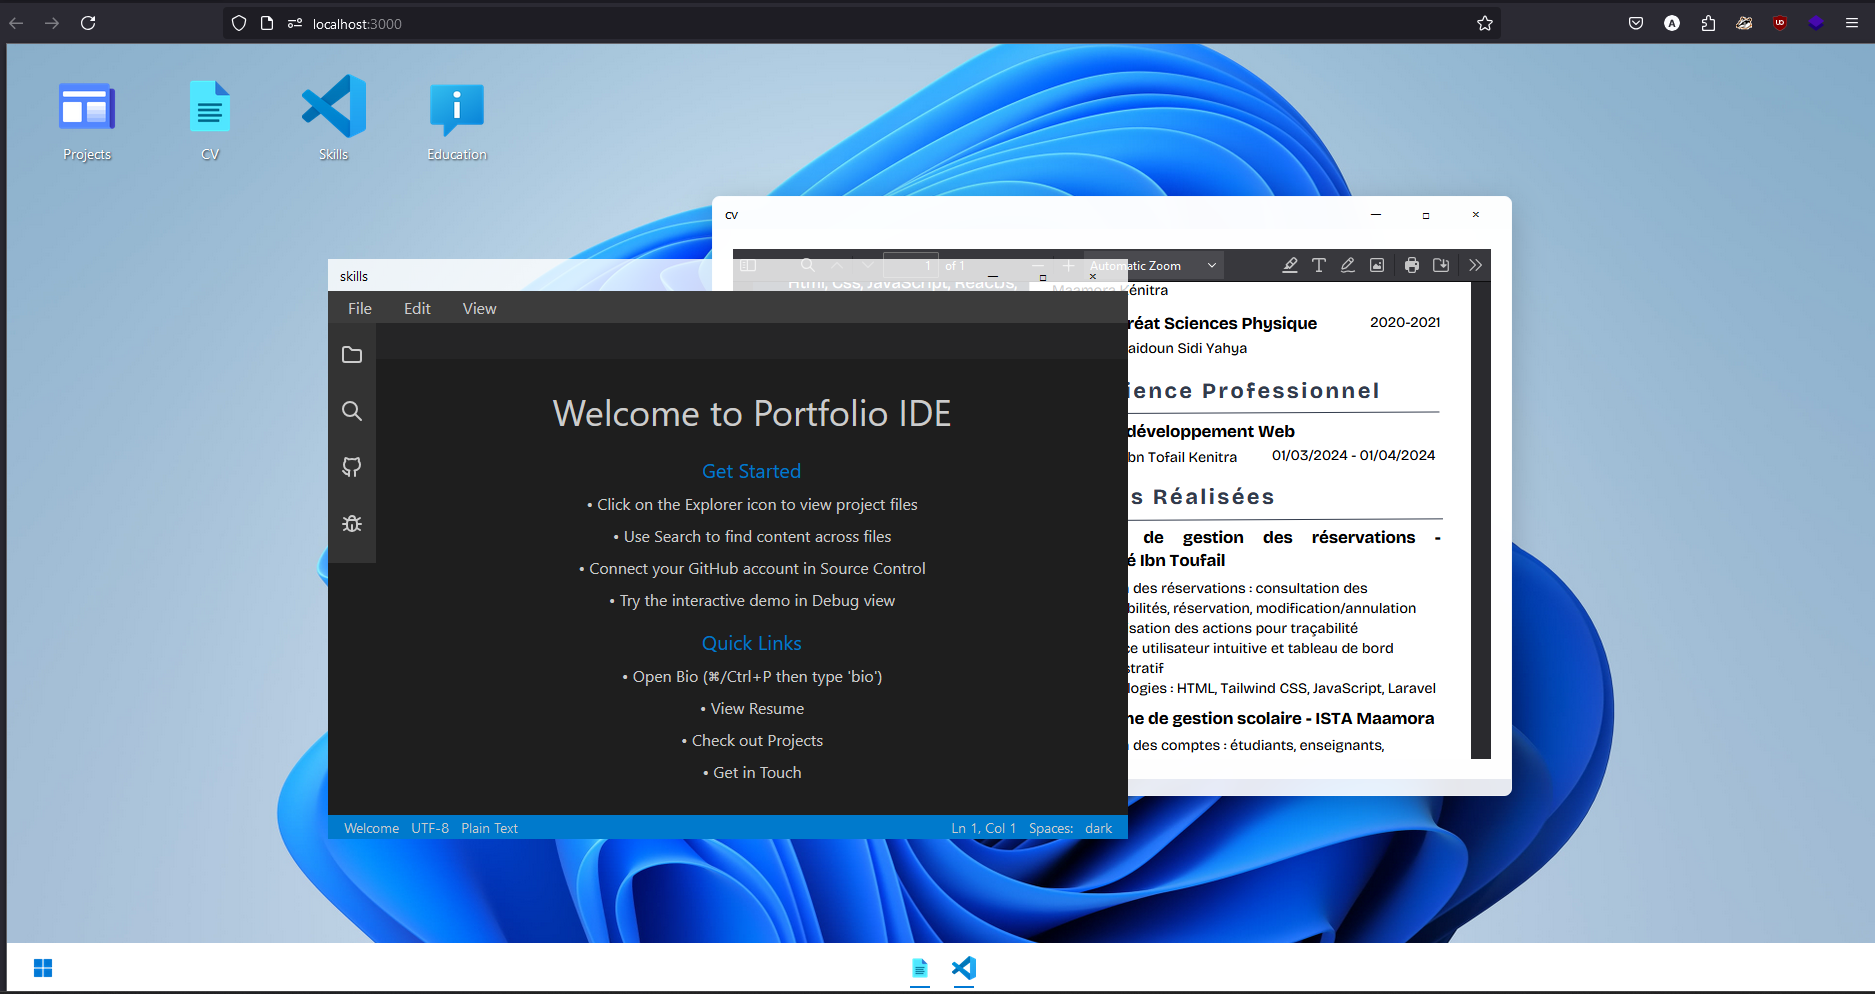
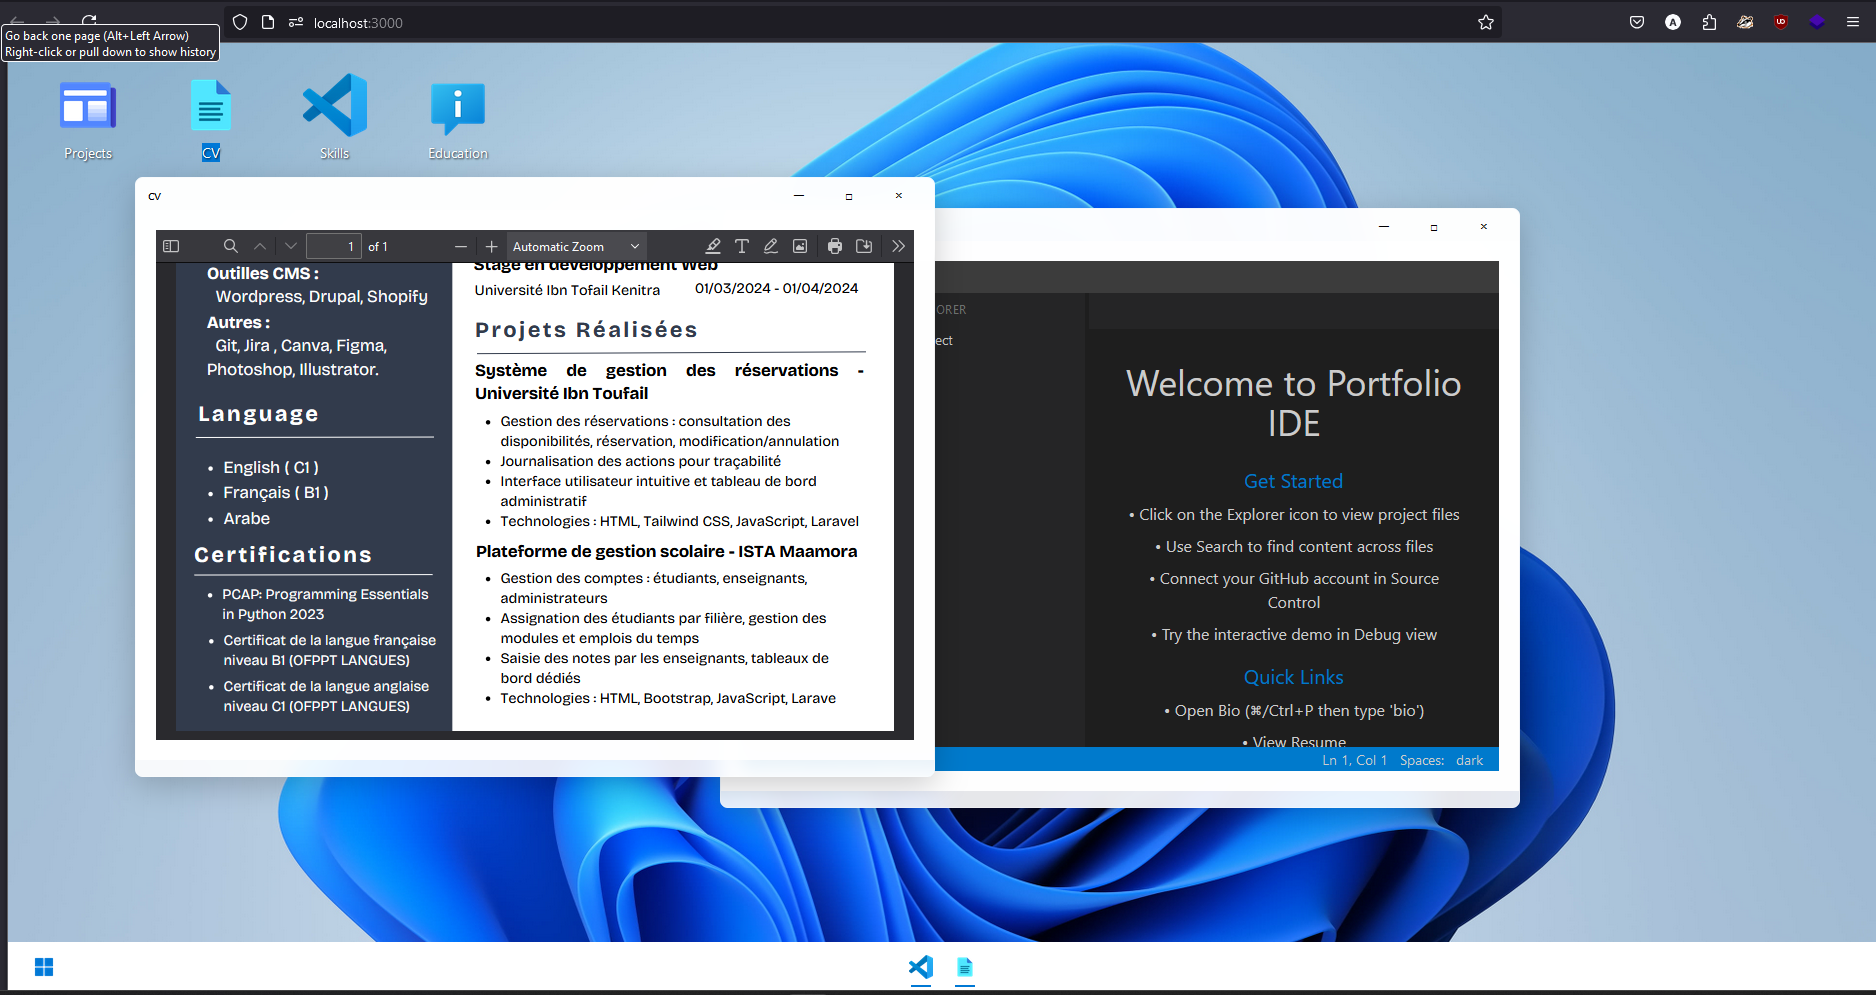
fix : smoother draggin

diff --git a/src/Window.js b/src/Window.js
@@ -1,49 +1,32 @@
 import React, { useState, useRef } from 'react';
+import Draggable from 'react-draggable';
 import './css/Window.css';
 import CV from './content/CV';
-import Skills from './content/Skills';
 import VSCodeWindow from './components/VSCodeWindow';
 
 function Window({ title, onClose, isMinimized, onMinimize, onMaximize, onRestore, isMaximized }) {
   const [position, setPosition] = useState({ x: 50, y: 50 });
   const [size, setSize] = useState({ width: 800, height: 600 });
-  const [isDragging, setIsDragging] = useState(false);
-  const [dragOffset, setDragOffset] = useState({ x: 0, y: 0 });
   const windowRef = useRef(null);
 
-  const handleMouseDown = (e) => {
-    if (e.target.closest('.window-controls')) return;
-    if (isMaximized) return; // Prevent dragging when maximized
-    setIsDragging(true);
-    const rect = windowRef.current.getBoundingClientRect();
-    setDragOffset({
-      x: e.clientX - rect.left,
-      y: e.clientY - rect.top
-    });
-  };
-
-  const handleMouseMove = (e) => {
-    if (!isDragging || isMaximized) return;
-    
-    const newX = e.clientX - dragOffset.x;
-    const newY = e.clientY - dragOffset.y;
-    
-    setPosition({
-      x: Math.max(0, newX),
-      y: Math.max(0, newY)
-    });
-  };
-
-  const handleMouseUp = () => {
-    setIsDragging(false);
-  };
-
-  const handleMaximize = () => {
-    if (isMaximized) {
-      onRestore();
-    } else {
-      onMaximize();
+  const handleDrag = (e, data) => {
+    if (!isMaximized) {
+      setPosition({ x: data.x, y: data.y });
     }
+  };
+
+  const windowStyle = isMaximized ? {
+    position: 'absolute',
+    left: 0,
+    top: 0,
+    width: '100%',
+    height: `calc(100vh - 48px)`,
+    display: isMinimized ? 'none' : 'block',
+  } : {
+    position: 'absolute',
+    width: `${size.width}px`,
+    height: `${size.height}px`,
+    display: isMinimized ? 'none' : 'block',
   };
 
   const renderContent = () => {
@@ -61,48 +44,36 @@ function Window({ title, onClose, isMinimized, onMinimize, onMaximize, onRestore
     }
   };
 
-  const windowStyle = isMaximized ? {
-    position: 'absolute',
-    left: 0,
-    top: 0,
-    width: '100%',
-    height: `calc(100vh - 48px)`,
-    display: isMinimized ? 'none' : 'block',
-  } : {
-    position: 'absolute',
-    left: `${position.x}px`,
-    top: `${position.y}px`,
-    width: `${size.width}px`,
-    height: `${size.height}px`,
-    display: isMinimized ? 'none' : 'block',
-  };
-
   return (
-    <div
-      ref={windowRef}
-      className={`window ${isMaximized ? 'maximized' : ''}`}
-      style={windowStyle}
-      onMouseDown={handleMouseDown}
-      onMouseMove={handleMouseMove}
-      onMouseUp={handleMouseUp}
-      onMouseLeave={handleMouseUp}
+    <Draggable
+      nodeRef={windowRef}
+      handle=".window-header"
+      disabled={isMaximized}
+      position={isMaximized ? { x: 0, y: 0 } : position}
+      onDrag={handleDrag}
+      bounds="parent"
+      defaultPosition={{ x: 50, y: 50 }}
     >
-       
+      <div
+        ref={windowRef}
+        className={`window ${isMaximized ? 'maximized' : ''}`}
+        style={windowStyle}
+      >
         <div className="window-header">
           <span>{title}</span>
           <div className="window-controls">
-            <button className="minimize" onClick={handleMaximize}>─</button>
-            <button className="maximize" onClick={handleMaximize}>
+            <button onClick={onMinimize}>─</button>
+            <button onClick={onMaximize}>
               {isMaximized ? '❐' : '□'}
             </button>
-            <button className="close" onClick={onClose}>×</button>
+            <button onClick={onClose}>×</button>
           </div>
         </div>
-      
-      <div className="window-content">
-        {renderContent()}
+        <div className="window-content">
+          {renderContent()}
+        </div>
       </div>
-    </div>
+    </Draggable>
   );
 }
 

diff --git a/src/css/Window.css b/src/css/Window.css
@@ -11,6 +11,8 @@
   overflow: hidden;
   transition: all 0.3s ease-in-out;
   transform-origin: bottom;
+  will-change: transform;
+  transform: translate3d(0, 0, 0);
 }
 
 .window.maximized {
